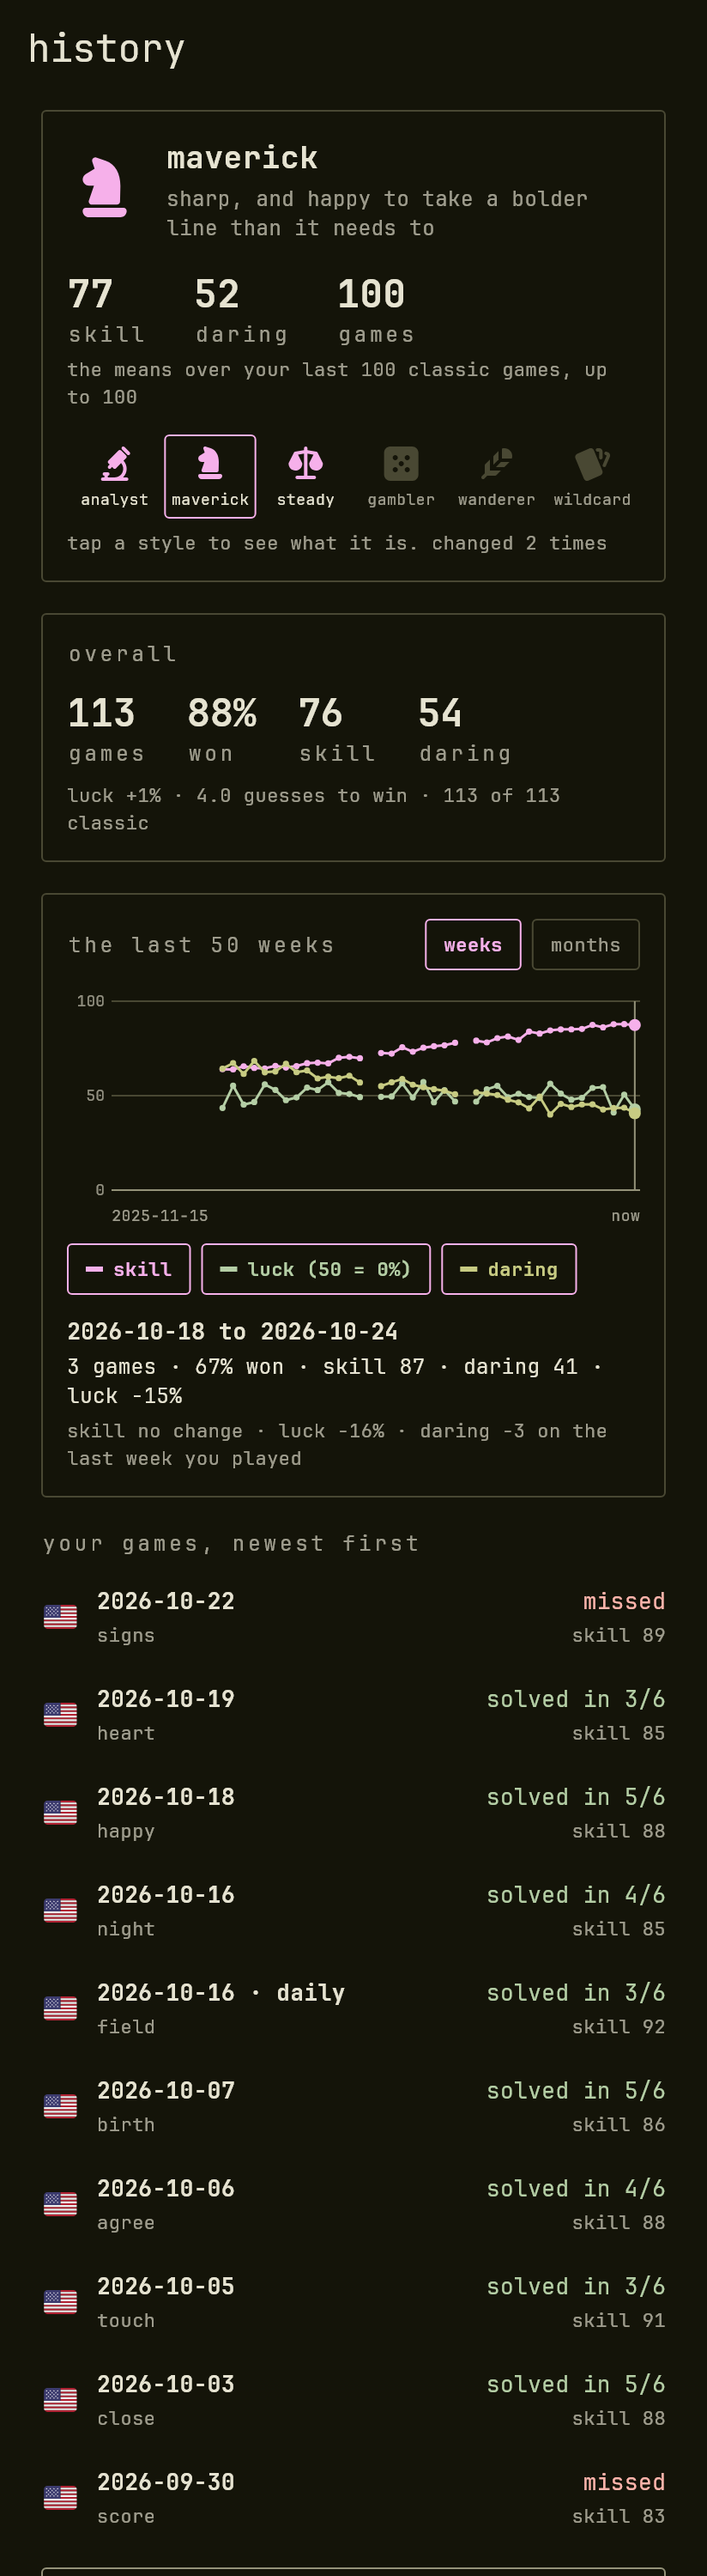
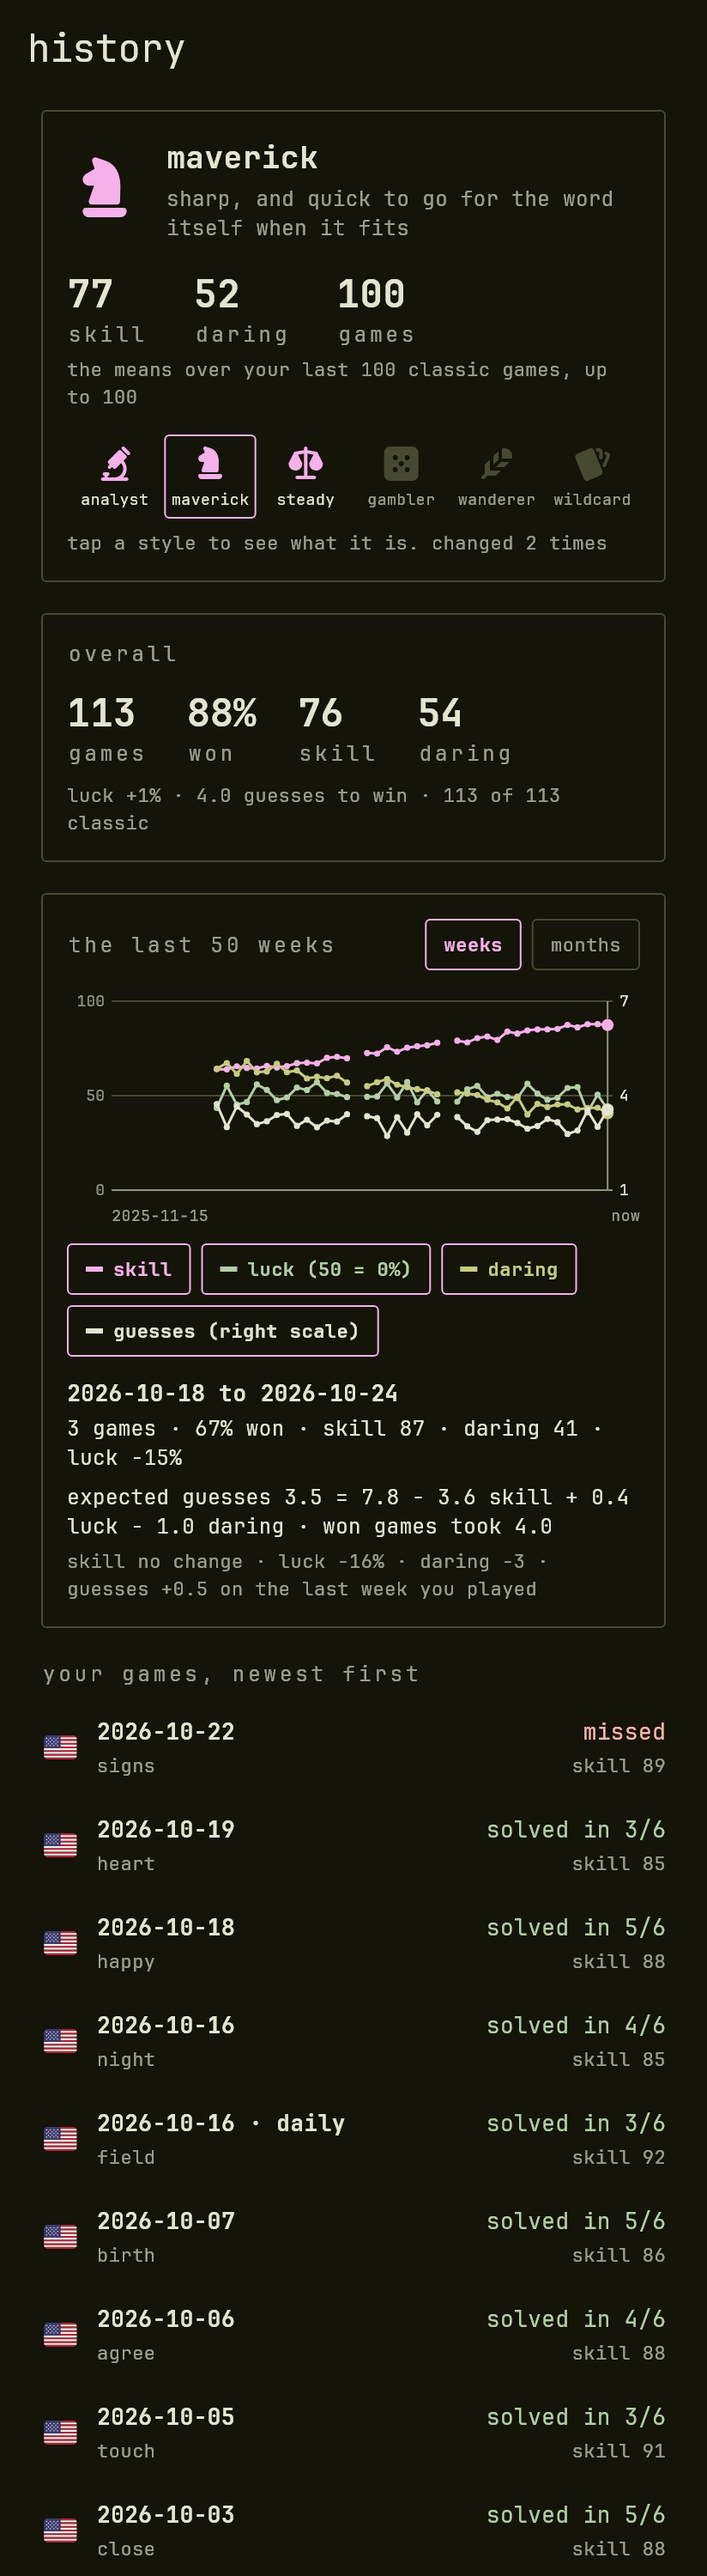
History chart: expected guesses from skill, luck and daring
A fourth line on its own right-edge scale (1 to 7), and the period detail breaks it into base, skill, luck and daring.

diff --git a/app/lib/period_chart.dart b/app/lib/period_chart.dart
@@ -7,11 +7,14 @@ Map<PeriodSeries, Color> seriesColors(ColorScheme c) => {
   PeriodSeries.skill: c.primary,
   PeriodSeries.luck: c.secondary,
   PeriodSeries.daring: c.tertiary,
+  PeriodSeries.guesses: c.onSurface,
 };
 
 /// How skill, luck and daring changed over the periods (50 weeks or months,
 /// oldest first), a line for each of the [shown], on one axis from 0 to 100.
-/// Luck is drawn about the middle (a faint line marks a luck of 0%). A period
+/// Luck is drawn about the middle (a faint line marks a luck of 0%). The
+/// expected guesses, when shown, have a scale of their own at the right edge,
+/// from 1 to 7. A period
 /// with nothing to show breaks the line, and a period alone is a dot, so a
 /// quiet stretch is seen as one. The [selected] period is picked out, and
 /// tapping or dragging along the chart picks another.
@@ -38,8 +41,13 @@ class PeriodChart extends StatelessWidget {
     return LayoutBuilder(
       builder: (context, box) {
         void pick(Offset at) {
-          if (periods.isEmpty || box.maxWidth <= _ChartPainter.axis) return;
-          final plotW = box.maxWidth - _ChartPainter.axis;
+          final right = shown.contains(PeriodSeries.guesses)
+              ? _ChartPainter.rightAxis
+              : 0.0;
+          if (periods.isEmpty || box.maxWidth <= _ChartPainter.axis + right) {
+            return;
+          }
+          final plotW = box.maxWidth - _ChartPainter.axis - right;
           final i = ((at.dx - _ChartPainter.axis) / plotW * periods.length)
               .floor();
           onSelect(i.clamp(0, periods.length - 1));
@@ -83,8 +91,10 @@ class _ChartPainter extends CustomPainter {
     required this.font,
   });
 
-  /// Room at the left for the numbers of the axis.
+  /// Room at the left for the numbers of the axis, and at the right for those
+  /// of the guesses (only when they are drawn).
   static const axis = 26.0;
+  static const rightAxis = 16.0;
 
   /// Per line, its value at each period (0 to 100, null for none).
   final Map<PeriodSeries, List<double?>> lines;
@@ -96,7 +106,9 @@ class _ChartPainter extends CustomPainter {
   @override
   void paint(Canvas canvas, Size size) {
     const top = 6.0, bottom = 4.0;
-    final plotW = size.width - axis;
+    final guessed = lines.containsKey(PeriodSeries.guesses);
+    final right = guessed ? rightAxis : 0.0;
+    final plotW = size.width - axis - right;
     final plotH = size.height - top - bottom;
     double y(double v) => top + plotH * (1 - v / 100);
 
@@ -104,7 +116,7 @@ class _ChartPainter extends CustomPainter {
     for (final v in const [0.0, 50.0, 100.0]) {
       canvas.drawLine(
         Offset(axis, y(v)),
-        Offset(size.width, y(v)),
+        Offset(size.width - right, y(v)),
         Paint()
           ..color = v == 0 ? base : grid
           ..strokeWidth = 1,
@@ -117,6 +129,21 @@ class _ChartPainter extends CustomPainter {
         textDirection: TextDirection.ltr,
       )..layout();
       tp.paint(canvas, Offset(axis - tp.width - 4, y(v) - tp.height / 2));
+      if (guessed) {
+        // the right scale: 1, 4 and 7 guesses on the same three lines
+        final g = TextPainter(
+          text: TextSpan(
+            text: (1 + v / 100 * 6).round().toString(),
+            style: TextStyle(
+              fontSize: 9,
+              color: colors[PeriodSeries.guesses],
+              fontFamily: font,
+            ),
+          ),
+          textDirection: TextDirection.ltr,
+        )..layout();
+        g.paint(canvas, Offset(size.width - right + 4, y(v) - g.height / 2));
+      }
     }
 
     final n = lines.values.isEmpty ? 0 : lines.values.first.length;

diff --git a/app/lib/analysis.dart b/app/lib/analysis.dart
@@ -197,11 +197,60 @@ List<Period> monthlyPeriods(History h, String today, {int count = 50}) {
   ];
 }
 
-/// The three measures the chart of periods follows, each a line.
+/// The expected number of guesses a game takes, read from skill, luck and
+/// daring by the linear fit of tools/predict_tries.dart (the mean of its fits
+/// in English, French and German, docs/paper Section 9.6):
+///
+///   guesses = 8.05 - 0.0413 skill - 0.0272 luck - 0.0316 daring
+///
+/// with skill and daring from 0 to 100 and luck from -100 to 100. It is an
+/// estimate from simulated players, not measured on people. The terms are shown
+/// as what each one does to a base: skill is never worse than none, so it only
+/// takes guesses off; luck takes off when positive and adds when negative; daring
+/// is measured from a typical level, [daringTypical], so going for the word less
+/// than usual adds guesses and more takes them off.
+const guessIntercept = 8.05;
+const guessPerSkill = -0.0413;
+const guessPerLuck = -0.0272;
+const guessPerDaring = -0.0316;
+const daringTypical = 8.0;
+
+/// What skill, luck and daring did to the expected guesses of a period.
+class GuessBreakdown {
+  const GuessBreakdown(this.base, this.skill, this.luck, this.daring);
+
+  /// What a player with no skill, average luck and typical daring is expected
+  /// to need.
+  final double base;
+
+  /// Each term, in guesses: negative takes guesses off.
+  final double skill, luck, daring;
+
+  /// The expected guesses, kept within the 1 to 7 a game can take (7 for a
+  /// game not solved).
+  double get total => (base + skill + luck + daring).clamp(1.0, 7.0);
+}
+
+/// The breakdown for [s], or null when it lacks a score or a daring.
+GuessBreakdown? guessBreakdown(PlayStats s) {
+  final d = s.daring;
+  if (s.isEmpty || s.scored == 0 || d == null) return null;
+  return GuessBreakdown(
+    guessIntercept + guessPerDaring * daringTypical,
+    guessPerSkill * s.skill,
+    guessPerLuck * s.luck,
+    guessPerDaring * (d - daringTypical),
+  );
+}
+
+/// The measures the chart of periods follows, each a line. The first three are
+/// drawn on a scale from 0 to 100; the expected guesses are drawn against their
+/// own scale, from 1 to 7, at the right edge.
 enum PeriodSeries {
   skill('skill'),
   luck('luck'),
-  daring('daring');
+  daring('daring'),
+  guesses('guesses');
 
   const PeriodSeries(this.label);
   final String label;
@@ -211,10 +260,12 @@ enum PeriodSeries {
   /// daring to average.
   double? of(PlayStats s) {
     if (s.isEmpty || s.scored == 0) return null;
+    if (this == PeriodSeries.guesses) return guessBreakdown(s)?.total;
     return switch (this) {
       PeriodSeries.skill => s.skill,
       PeriodSeries.luck => s.luck,
       PeriodSeries.daring => s.daring,
+      PeriodSeries.guesses => null,
     };
   }
 
@@ -224,6 +275,8 @@ enum PeriodSeries {
   double? plot(PlayStats s) {
     final v = of(s);
     if (v == null) return null;
+    // the guesses run from 1 (the bottom) to 7 (the top) on the right scale
+    if (this == PeriodSeries.guesses) return (v - 1) / 6 * 100;
     return this == PeriodSeries.luck ? (v + 100) / 2 : v;
   }
 }

diff --git a/app/test/history_page_test.dart b/app/test/history_page_test.dart
@@ -79,7 +79,7 @@ void main() {
   }
 
   Future<void> show(WidgetTester tester, History h) async {
-    await tester.binding.setSurfaceSize(const Size(420, 1700));
+    await tester.binding.setSurfaceSize(const Size(420, 1900));
     await appState.load();
     appState.history = h;
     await tester.pumpWidget(
@@ -688,6 +688,8 @@ void main() {
       expect(detail, contains('skill 85'));
       expect(detail, contains('daring 30'));
       expect(detail, contains('luck −5%'));
+      expect(text(tester, 'period-guesses'), startsWith('expected guesses '));
+      expect(text(tester, 'period-guesses'), contains('skill'));
       expect(find.byType(PeriodChart), findsOneWidget);
     });
 
@@ -722,20 +724,26 @@ void main() {
       await show(tester, h);
       Set<PeriodSeries> shown() =>
           tester.widget<PeriodChart>(find.byType(PeriodChart)).shown;
-      expect(shown(), {
-        PeriodSeries.skill,
-        PeriodSeries.luck,
-        PeriodSeries.daring,
-      });
+      expect(shown(), {...PeriodSeries.values});
       await tester.tap(find.byKey(const ValueKey('series-luck')));
       await tester.pump();
-      expect(shown(), {PeriodSeries.skill, PeriodSeries.daring});
+      expect(shown(), {
+        PeriodSeries.skill,
+        PeriodSeries.daring,
+        PeriodSeries.guesses,
+      });
       await tester.tap(find.byKey(const ValueKey('series-skill')));
       await tester.pump();
-      expect(shown(), {PeriodSeries.daring});
+      expect(shown(), {PeriodSeries.daring, PeriodSeries.guesses});
       await tester.tap(find.byKey(const ValueKey('series-skill')));
       await tester.pump();
-      expect(shown(), {PeriodSeries.skill, PeriodSeries.daring});
+      expect(shown(), {
+        PeriodSeries.skill,
+        PeriodSeries.daring,
+        PeriodSeries.guesses,
+      });
+      // the guesses have a scale of their own at the right
+      expect(find.text('guesses (right scale)'), findsOneWidget);
       // luck says where its middle is
       expect(find.text('luck (50 = 0%)'), findsOneWidget);
     });
@@ -750,8 +758,9 @@ void main() {
       await show(tester, h);
       final chart = find.byKey(const ValueKey('period-chart'));
       final rect = tester.getRect(chart);
-      // the plot starts after the axis (26 px) and holds 50 slots
-      final slot = (rect.width - 26) / 50;
+      // the plot starts after the axis (26 px), stops before the guesses' scale
+      // (16 px) and holds 50 slots
+      final slot = (rect.width - 26 - 16) / 50;
       Offset at(int i) =>
           Offset(rect.left + 26 + slot * (i + .5), rect.center.dy);
 
@@ -783,7 +792,7 @@ void main() {
       game(h, DateTime(2026, 10, 14), skill: 55);
       await show(tester, h);
       final rect = tester.getRect(find.byKey(const ValueKey('period-chart')));
-      final slot = (rect.width - 26) / 50;
+      final slot = (rect.width - 26 - 16) / 50;
       final g = await tester.startGesture(
         Offset(rect.left + 26 + slot * 49.5, rect.center.dy),
       );

diff --git a/app/lib/history_page.dart b/app/lib/history_page.dart
@@ -538,10 +538,13 @@ class _TrendState extends State<_Trend> {
       for (var j = sel - 1; j >= 0; j--) {
         final before = series.of(periods[j].stats);
         if (before == null) continue;
-        final d = (now - before).round();
+        final tenths = series == PeriodSeries.guesses;
+        final d = tenths
+            ? ((now - before) * 10).round() / 10
+            : (now - before).round();
         changes[series] = d == 0
             ? 'no change'
-            : '${d > 0 ? '+' : '−'}${d.abs()}'
+            : '${d > 0 ? '+' : '−'}${tenths ? d.abs().toStringAsFixed(1) : d.abs().round()}'
                   '${series == PeriodSeries.luck ? '%' : ''}';
         break;
       }
@@ -596,7 +599,11 @@ class _TrendState extends State<_Trend> {
             children: [
               for (final series in PeriodSeries.values)
                 _Choice(
-                  series == PeriodSeries.luck ? 'luck (50 = 0%)' : series.label,
+                  switch (series) {
+                    PeriodSeries.luck => 'luck (50 = 0%)',
+                    PeriodSeries.guesses => 'guesses (right scale)',
+                    _ => series.label,
+                  },
                   key: ValueKey('series-${series.name}'),
                   selected: _shown.contains(series),
                   color: seriesColors(c)[series],
@@ -624,6 +631,14 @@ class _TrendState extends State<_Trend> {
             key: const ValueKey('period-detail'),
             style: const TextStyle(fontSize: 12, height: 1.4),
           ),
+          if (guessBreakdown(s) case final b?) ...[
+            const SizedBox(height: 6),
+            Text(
+              _guessLine(b, s),
+              key: const ValueKey('period-guesses'),
+              style: const TextStyle(fontSize: 12, height: 1.4),
+            ),
+          ],
           if (p.style != null) ...[
             const SizedBox(height: 6),
             Row(
@@ -651,6 +666,20 @@ class _TrendState extends State<_Trend> {
       ),
     );
   }
+}
+
+/// "expected guesses 4.4 = 7.8 − 3.6 skill + 0.3 luck + 0.0 daring": what each
+/// of skill, luck and daring did to the guesses a game was expected to take,
+/// with what the won games really took beside it.
+String _guessLine(GuessBreakdown b, PlayStats s) {
+  String term(double v, String name) =>
+      '${v < 0 ? '−' : '+'} ${v.abs().toStringAsFixed(1)} $name';
+  final actual = s.meanTries == null
+      ? ''
+      : ' · won games took ${s.meanTries!.toStringAsFixed(1)}';
+  return 'expected guesses ${b.total.toStringAsFixed(1)} = '
+      '${b.base.toStringAsFixed(1)} ${term(b.skill, 'skill')} '
+      '${term(b.luck, 'luck')} ${term(b.daring, 'daring')}$actual';
 }
 
 /// A small switch of the trend card.

diff --git a/app/test/analysis_test.dart b/app/test/analysis_test.dart
@@ -173,11 +173,40 @@ void main() {
       daring: daring,
     );
 
+    test('the expected guesses come from skill, luck and daring', () {
+      final good = stats(skill: 95, luck: 0, daring: 8);
+      final bad = stats(skill: 40, luck: 0, daring: 8);
+      final b = guessBreakdown(good)!;
+      // a typical daring adds nothing, and skill only takes guesses off
+      expect(b.daring, closeTo(0, 1e-9));
+      expect(b.skill, lessThan(0));
+      expect(b.luck, closeTo(0, 1e-9));
+      expect(b.total, closeTo(b.base + b.skill, 1e-9));
+      expect(b.total, lessThan(guessBreakdown(bad)!.total));
+      // luck takes guesses off when good and adds them when bad
+      expect(guessBreakdown(stats(luck: 40))!.luck, lessThan(0));
+      expect(guessBreakdown(stats(luck: -40))!.luck, greaterThan(0));
+      // daring below the typical level adds, above takes off
+      expect(guessBreakdown(stats(daring: 0))!.daring, greaterThan(0));
+      expect(guessBreakdown(stats(daring: 30))!.daring, lessThan(0));
+      // it stays within what a game can take, and is plotted 1 to 7
+      expect(
+        guessBreakdown(stats(skill: 100, luck: 100, daring: 100))!.total,
+        1,
+      );
+      expect(
+        PeriodSeries.guesses.plot(stats(skill: 0, luck: -100, daring: 0)),
+        100,
+      );
+      expect(guessBreakdown(stats(daring: null)), isNull);
+    });
+
     test('each has a name, and skill and daring are drawn as they are', () {
       expect(PeriodSeries.values.map((s) => s.label), [
         'skill',
         'luck',
         'daring',
+        'guesses',
       ]);
       expect(PeriodSeries.skill.plot(stats(skill: 83)), 83);
       expect(PeriodSeries.daring.plot(stats(daring: 12)), 12);

diff --git a/docs/paper/main.tex b/docs/paper/main.tex
@@ -795,6 +795,13 @@ discreteness of the tries and what the game means lose (the number of guesses wi
 choice, and when the luck came). Luck explains more than skill alone because a game that
 ends early did so by a lucky split.
 
+The history page uses the fits to draw the expected guesses of a period. It takes the mean
+of the three fits, $8.05-0.0413\,\text{skill}-0.0272\,\text{luck}-0.0316\,\text{daring}$, and
+shows each term as what it does to a base. Skill, which is never negative, can only take
+guesses off; luck can do either; daring is measured from a typical level of $8$ so that it
+too can add or take off. The weights come from simulated players and are a first reading,
+not measured on people.
+
 \subsection{A worked game}\label{sec:game}
 
 \texttt{worked\_game.py} follows one game: \textsc{caret}, then \textsc{least}, against

diff --git a/Readme.md b/Readme.md
@@ -169,7 +169,13 @@ The **history** page (tap your playstyle on the home screen) has:
   seven-day windows ending today) or the last 50 months, with a gap where nothing was played. Tap
   or drag along it to pick a period and see its games, its numbers, the change on the last period
   you played, and the playstyle that period alone would have. Luck is drawn about the middle line,
-  which is a luck of 0%;
+  which is a luck of 0%. A fourth line, **guesses**, is the number of guesses a game is expected to
+  take, on its own scale (1 to 7) at the right edge, and the period's details break it down:
+  `expected guesses 4.4 = 7.8 − 3.6 skill + 0.3 luck + 0.0 daring`. Skill only ever takes guesses
+  off; luck takes them off when good and adds them when bad; daring is measured from a typical
+  level (8), so going for the word more takes guesses off and less adds them. The weights are the
+  mean of three linear fits on simulated games (`app/tools/predict_tries.dart`, paper Section 9.6),
+  **not measured on people**;
 - your games, newest first: **the last ten, and "load 10 more" as you need them**. Each opens its
   review, rebuilt from the guesses alone.
 
